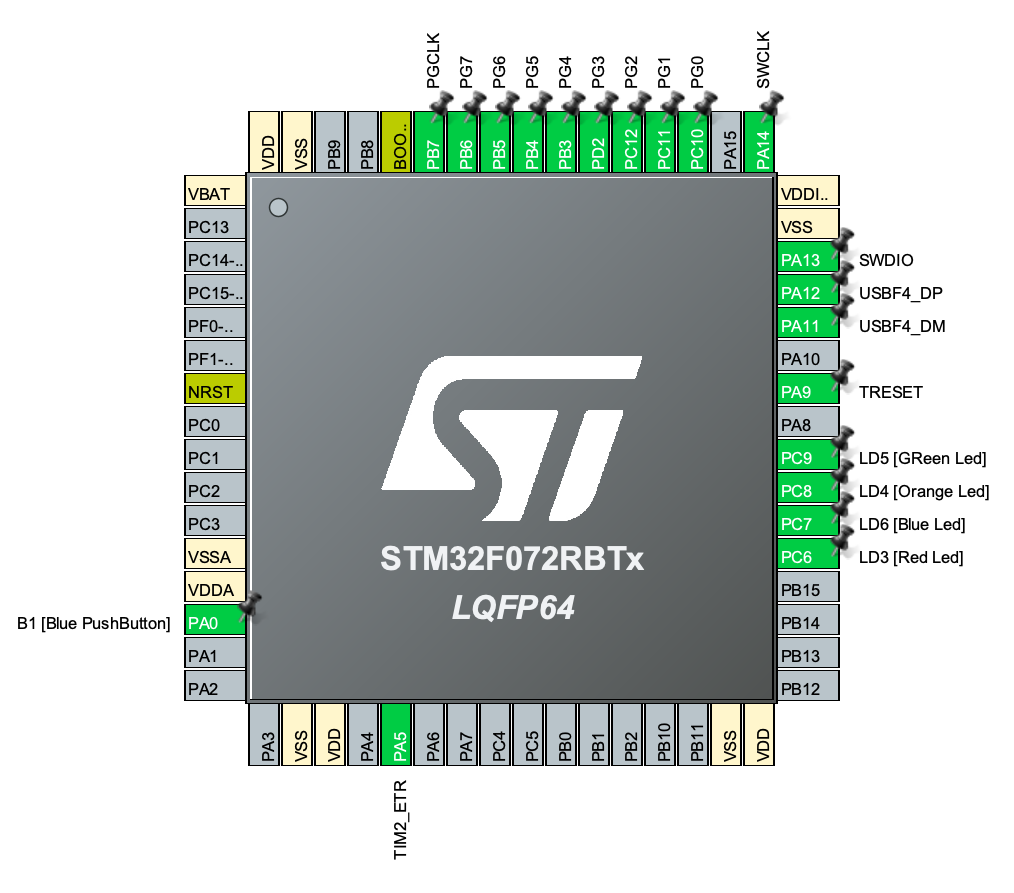
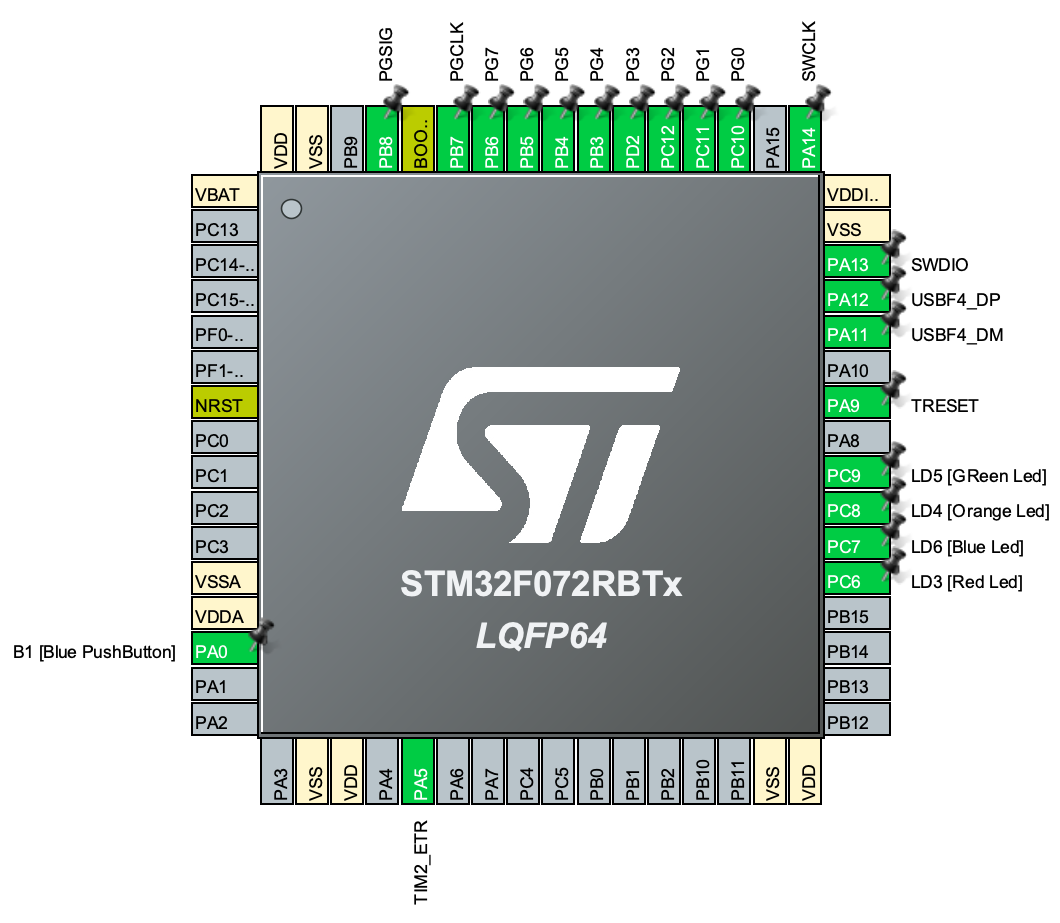
Add functionality to enable DAC bypass on the power-glitcher

diff --git a/Core/Src/main.c b/Core/Src/main.c
@@ -29,6 +29,8 @@
 static inline uint8_t send_to_usb(char *);
 static inline void pg_set_value(uint8_t);
 static inline void pg_set_value_fast(uint8_t);
+static inline void pg_sig_set_high();
+static inline void pg_sig_set_low();
 /* USER CODE END Includes */
 
 /* Private typedef -----------------------------------------------------------*/
@@ -38,6 +40,7 @@ static inline void pg_set_value_fast(uint8_t);
 
 /* Private define ------------------------------------------------------------*/
 /* USER CODE BEGIN PD */
+#define PG_DAC_BYPASS
 
 /* USER CODE END PD */
 
@@ -95,6 +98,7 @@ bool reset_timer = false;
 #define GPIOD_BSRR ((volatile uint32_t *) &GPIOD->BSRR)
 #define GPIOC_BSRR ((volatile uint32_t *) &GPIOC->BSRR)
 
+
 inline void pg_set_value_fast(uint8_t value) {
     // Clk: PB7
     // Data: PB6, PB5, PB4, PB3, PD2, PC12, PC11, PC10
@@ -122,6 +126,14 @@ inline void pg_set_value(uint8_t value) {
     HAL_GPIO_TogglePin(PGCLK_GPIO_Port, PGCLK_Pin);
 }
 
+inline void pg_sig_set_high() {
+    PGSIG_GPIO_Port->BSRR = (uint32_t)PGSIG_Pin;
+}
+
+inline void pg_sig_set_low() {
+    PGSIG_GPIO_Port->BRR  = (uint32_t)PGSIG_Pin;
+}
+
 void reset_target() {
     HAL_GPIO_WritePin(TRESET_GPIO_Port, TRESET_Pin, GPIO_PIN_SET);
     HAL_Delay(RESET_TIME_MS);
@@ -147,20 +159,41 @@ void process_cmd_voltage(uint8_t *usb_msg, uint16_t usb_msg_len) {
 }
 
 /**
- * cmd: ' v 0x??' -> 8 chars
+ * cmd: '?' -> 1 chars
  * 
  */
-void process_cmd_set(uint8_t *usb_msg, uint16_t usb_msg_len) {
-    if (usb_msg_len < 8)
+void process_cmd_signal(uint8_t *usb_msg, uint16_t usb_msg_len) {
+    if (usb_msg_len < 1)
         return;
+
+    if (usb_msg[0] != '0' && usb_msg[0] != '1')
+        return;
+
+    if (usb_msg[0] == '0') {
+        pg_sig_set_low();
+    } else {
+        pg_sig_set_high();
+    }
+}
+
+void process_cmd_set(uint8_t *usb_msg, uint16_t usb_msg_len) {
 
     uint8_t arg = usb_msg[1];
     
     switch (arg) {
-        case 'v':
+        case 'v': /* ' v 0x??' -> 8 chars */
+            if (usb_msg_len < 8)
+                return;
             if (usb_msg[2] != ' ')
                 return;
             process_cmd_voltage(usb_msg + 3, usb_msg_len - 3);
+            break;
+        case 's': /* ' s ?' -> 5 chars */
+            if (usb_msg_len < 5)
+                return;
+            if (usb_msg[2] != ' ')
+                return;
+            process_cmd_signal(usb_msg + 3, usb_msg_len - 3);
             break;
         default:
             break;
@@ -193,8 +226,13 @@ inline uint8_t send_to_usb(char *buf) {
 }
 
 void generate_glitch() {
+#ifdef PG_DAC_BYPASS
+    pg_sig_set_low();
+    pg_sig_set_high();
+#else
     pg_set_value_fast(0x00);
     pg_set_value_fast(PG_VOLTAGE_FS);
+#endif
 }
 
 void print_timer_value() {
@@ -237,6 +275,7 @@ int main(void)
   MX_TIM2_Init();
 
   pg_set_value(pg_value);
+  pg_sig_set_high();
   /* USER CODE BEGIN 2 */
 
   /* USER CODE END 2 */
@@ -404,7 +443,7 @@ static void MX_GPIO_Init(void)
 
   /*Configure GPIO pin Output Level */
   HAL_GPIO_WritePin(GPIOB, PG4_Pin|PG5_Pin|PG6_Pin|PG7_Pin
-                          |PGCLK_Pin, GPIO_PIN_RESET);
+                          |PGCLK_Pin|PGSIG_Pin, GPIO_PIN_RESET);
 
   /*Configure GPIO pin : B1_Pin */
   GPIO_InitStruct.Pin = B1_Pin;
@@ -441,9 +480,9 @@ static void MX_GPIO_Init(void)
   HAL_GPIO_Init(PG3_GPIO_Port, &GPIO_InitStruct);
 
   /*Configure GPIO pins : PG4_Pin PG5_Pin PG6_Pin PG7_Pin
-                           PGCLK_Pin */
+                           PGCLK_Pin PGSIG_Pin */
   GPIO_InitStruct.Pin = PG4_Pin|PG5_Pin|PG6_Pin|PG7_Pin
-                          |PGCLK_Pin;
+                          |PGCLK_Pin|PGSIG_Pin;
   GPIO_InitStruct.Mode = GPIO_MODE_OUTPUT_PP;
   GPIO_InitStruct.Pull = GPIO_NOPULL;
   GPIO_InitStruct.Speed = GPIO_SPEED_FREQ_HIGH;
@@ -454,6 +493,9 @@ static void MX_GPIO_Init(void)
 
   /**/
   HAL_I2CEx_EnableFastModePlus(SYSCFG_CFGR1_I2C_FMP_PB7);
+
+  /**/
+  HAL_I2CEx_EnableFastModePlus(SYSCFG_CFGR1_I2C_FMP_PB8);
 
   /* EXTI interrupt init*/
   HAL_NVIC_SetPriority(EXTI0_1_IRQn, 0, 0);

diff --git a/Core/Inc/main.h b/Core/Inc/main.h
@@ -112,6 +112,8 @@ void Error_Handler(void);
 #define PG7_GPIO_Port GPIOB
 #define PGCLK_Pin GPIO_PIN_7
 #define PGCLK_GPIO_Port GPIOB
+#define PGSIG_Pin GPIO_PIN_8
+#define PGSIG_GPIO_Port GPIOB
 
 /* USER CODE BEGIN Private defines */
 

diff --git a/README.md b/README.md
@@ -2,6 +2,9 @@
 
 Controller firmware for the STM32F072B-DISCO board.
 
-The waveform below shows the shortest glitch achieved by driving the [power-glitcher](https://github.com/cpey/power-glitcher) board:
+The waveform below shows the shortest glitch achieved by driving the DAC of the [power-glitcher](https://github.com/cpey/power-glitcher) board:
 
-![Voltage glitch driving the power-glitcher board](https://github.com/cpey/glitch-controller/blob/main/images/glitch.png)
+![Waveform showing a voltage glitch driving the DAC of the power-glitcher board.](https://github.com/cpey/glitch-controller/blob/main/images/pg_dac_glitch.png)
+
+The following waveform shows the glitch obtained when using the power-glitcher in on/off mode, bypassing the DAC:
+![Waveform showing a voltage glitch bypassing the DAC of the power-glitcher board.](https://github.com/cpey/glitch-controller/blob/main/images/pg_sig_glitch.png)
